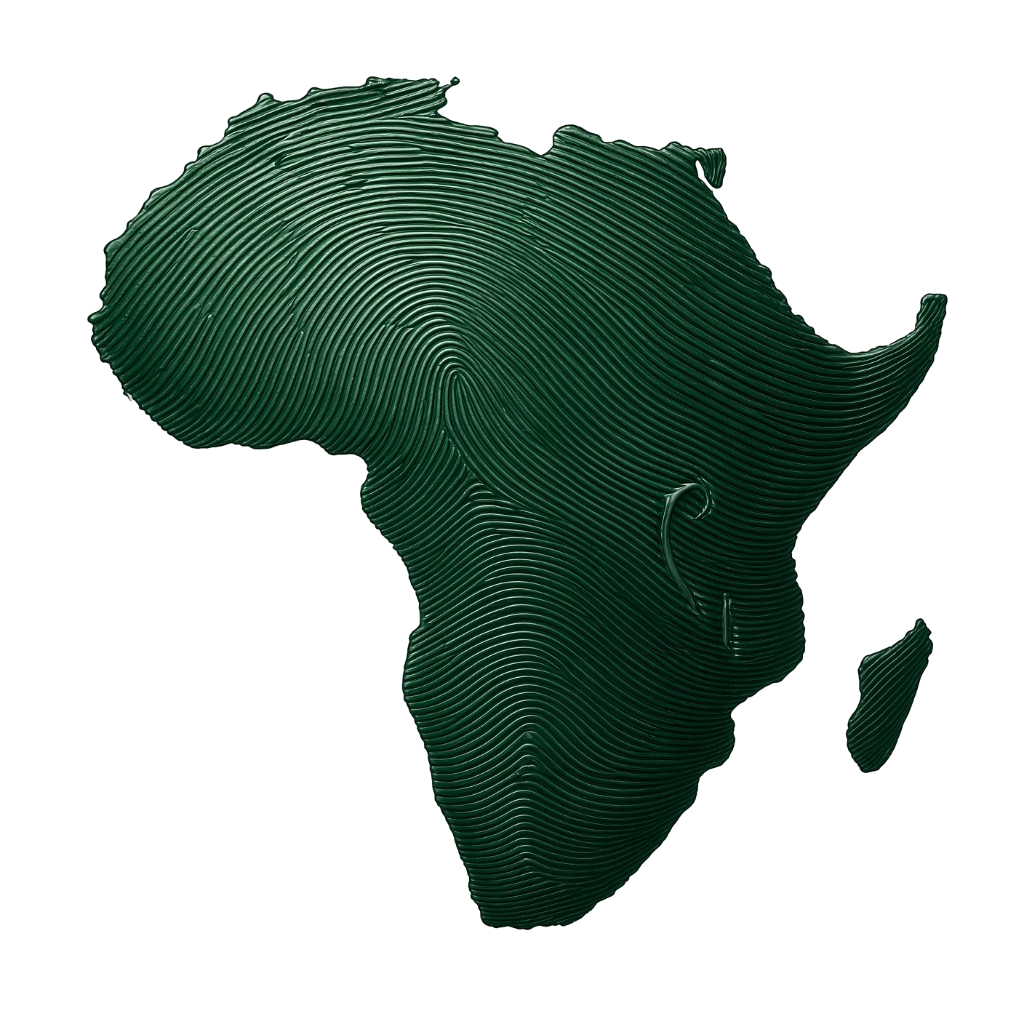
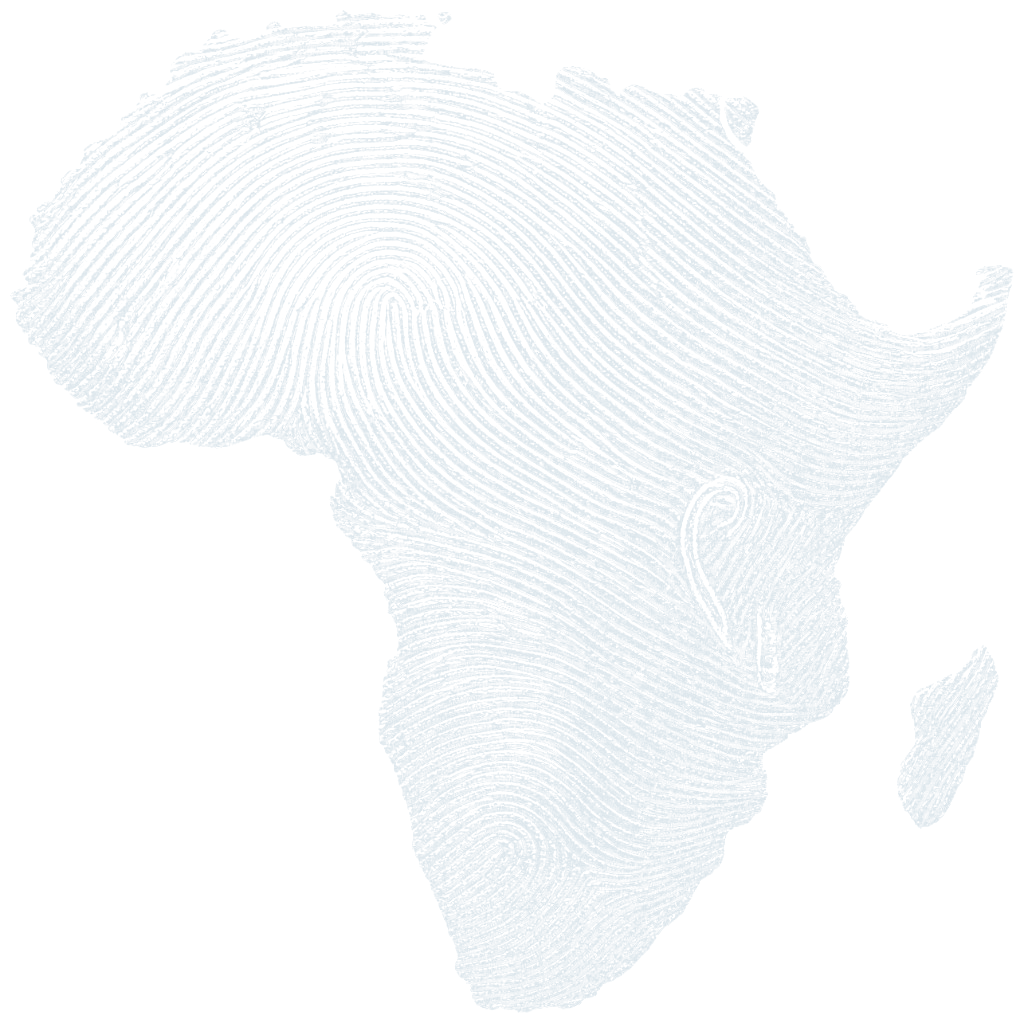
Swap the green IntelAfri mark for the fingerprint so it reads on the dark card.

diff --git a/systems/index.html b/systems/index.html
@@ -52,7 +52,7 @@
       href="https://fonts.googleapis.com/css2?family=Outfit:wght@400;500;600;700;800&display=swap"
       rel="stylesheet"
     />
-    <link rel="stylesheet" href="/styles.css?v=cool47" />
+    <link rel="stylesheet" href="/styles.css?v=cool48" />
   </head>
   <body class="site">
     <div class="vibe" aria-hidden="true">
@@ -105,8 +105,8 @@
             rel="noopener noreferrer"
           >
             <img
-              src="/assets/intelafri-mark.png?v=mark2"
-              alt="IntelAfri mark — ridged green map of Africa"
+              src="/assets/intelafri-mark.png?v=mark3"
+              alt="IntelAfri mark — fingerprint map of Africa"
               width="1024"
               height="1024"
             />
